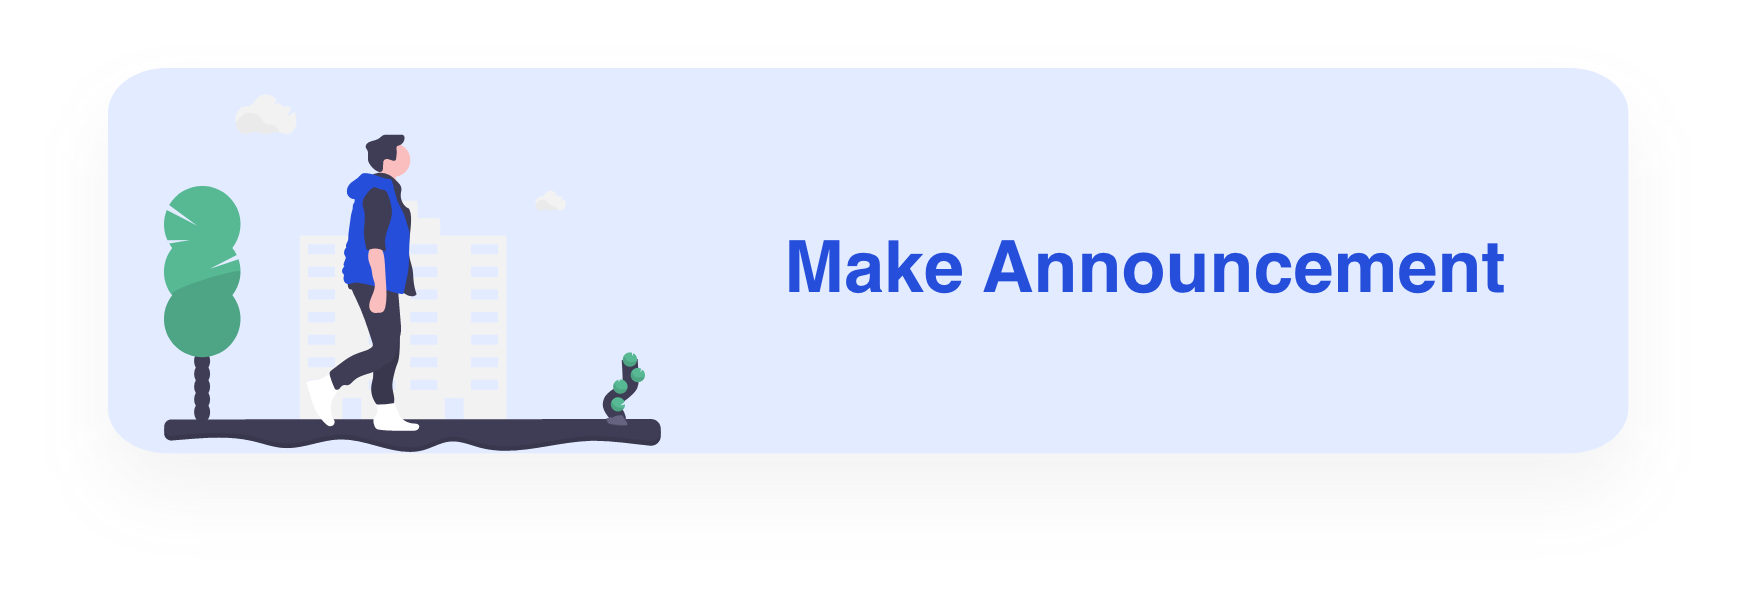
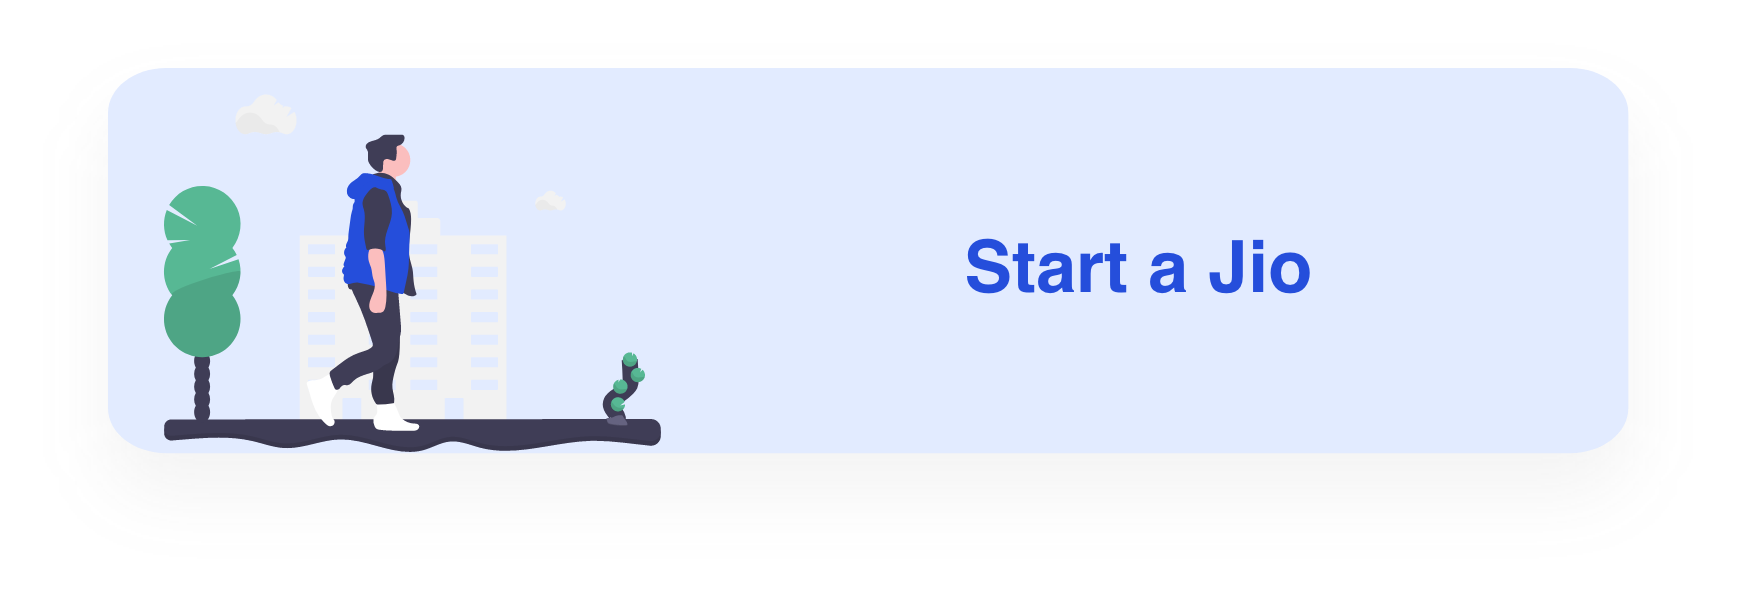
Added DefaultAddress on the homepage, changed the phrasing.

Changed region(s): [[0.4352, 0.3887, 0.8705, 0.5083]]

diff --git a/accessControlModule/HomeScreen.js b/accessControlModule/HomeScreen.js
@@ -23,6 +23,7 @@ class HomeScreen extends React.Component {
       user: this.props.user,
       refreshing: false,
       announcements: [],
+      startLocationStr: 'Select a location',
     };
   }
 
@@ -36,16 +37,22 @@ class HomeScreen extends React.Component {
 
   componentDidMount() {
     this.getAnnouncements();
-  }
-
-  async getAnnouncerName(userId) {
-    try {
-      const response = await axios.get(globalVariable.userApi + '/' + userId);
-      return Promise.resolve(response.data.name);
-    } catch (error) {
-      console.log(error);
+    if (this.props.user.defaultAddressId !== null) {
+      this.getDefaultAddress();
     }
   }
+
+  getDefaultAddress = () =>
+    this.props.user.Addresses.map((address) => {
+      let addressStr;
+      if (this.props.user.defaultAddressId === address.addressId) {
+        addressStr = address.country + ' ' + address.postalCode;
+        this.setState({
+          defaultAddress: address,
+          startLocationStr: addressStr,
+        });
+      }
+    });
 
   async getAnnouncements() {
     try {
@@ -163,10 +170,10 @@ class HomeScreen extends React.Component {
             Hey, {this.state.user.name}
           </Text>
           <Text style={styles.subtitle}>
-            Start reducing footprints by making announcements and requests.
+            Start a jio to help reduce foot traffic in your neighbourhood!
           </Text>
           <TouchableOpacity
-            onPress={() => this.props.navigation.navigate('HealthDeclaration')}>
+            onPress={() => this.props.navigation.replace('HealthDeclaration')}>
             <Image
               style={{
                 width: 400,
@@ -176,13 +183,23 @@ class HomeScreen extends React.Component {
               source={require('../img/homeImg.png')}
             />
           </TouchableOpacity>
+
           <Text style={styles.subheader} category="h6">
-            Announcements
+            Jios near
           </Text>
+          <Card
+            style={styles.locationCard}
+            onPress={() => this.props.navigation.navigate('Address')}>
+            <Text style={{fontFamily: 'Karla-Bold'}}>
+              {this.state.startLocationStr}
+            </Text>
+          </Card>
+
           {this.renderContent()}
         </ScrollView>
       </Layout>
-    );
+    )
+
   }
 }
 
@@ -220,6 +237,14 @@ const styles = StyleSheet.create({
   },
   name: {
     marginLeft: 10,
+  },
+  locationCard: {
+    backgroundColor: 'white',
+    marginLeft: 20,
+    marginRight: 20,
+    marginBottom: 20,
+    borderRadius: 15,
+    backgroundColor: '#F5F5F5',
   },
   card: {
     backgroundColor: 'white',

diff --git a/navigation.js b/navigation.js
@@ -123,17 +123,6 @@ const HomeNavigator = () => (
       options={({navigation}) => ({
         headerShown: true,
         ...TransitionPresets.FadeFromBottomAndroid,
-        headerLeft: () => (
-          <Button
-            onPress={() => {
-              navigation.replace('Tabs', {screen: 'Profile'});
-            }}
-            accessoryLeft={BackIcon}
-            appearance="ghost"
-            status="basic"
-            size="tiny"
-          />
-        ),
       })}
     />
     <Stack.Screen
@@ -364,6 +353,17 @@ const HomeNavigator = () => (
       options={({navigation}) => ({
         headerShown: true,
         ...TransitionPresets.FadeFromBottomAndroid,
+        headerLeft: () => (
+          <Button
+            onPress={() => {
+              navigation.replace('Tabs', {screen: 'Home'});
+            }}
+            accessoryLeft={BackIcon}
+            appearance="ghost"
+            status="basic"
+            size="tiny"
+          />
+        ),
       })}
     />
     <Stack.Screen

diff --git a/jioManagement/HealthDeclaration.js b/jioManagement/HealthDeclaration.js
@@ -120,7 +120,7 @@ class HealthDeclaration extends React.Component {
           Health Declaration
         </Text>
         <Text style={styles.subtitle}>
-          To ensure the wellbeing of the community, it is necessary to declare
+          For covid-19 prevention purpose, it is necessary to declare
           that you are fit!
         </Text>
         <ScrollView style={styles.container}>

diff --git a/jioManagement/StartLocation.js b/jioManagement/StartLocation.js
@@ -36,7 +36,7 @@ class StartLocation extends React.Component {
             destination: this.state.destination,
           }
         );
-        this.props.navigation.navigate('Home');
+        this.props.navigation.navigate('Tabs', {screen: 'Home'});
       } catch (error) {
         console.log(error);
         this.setState({
